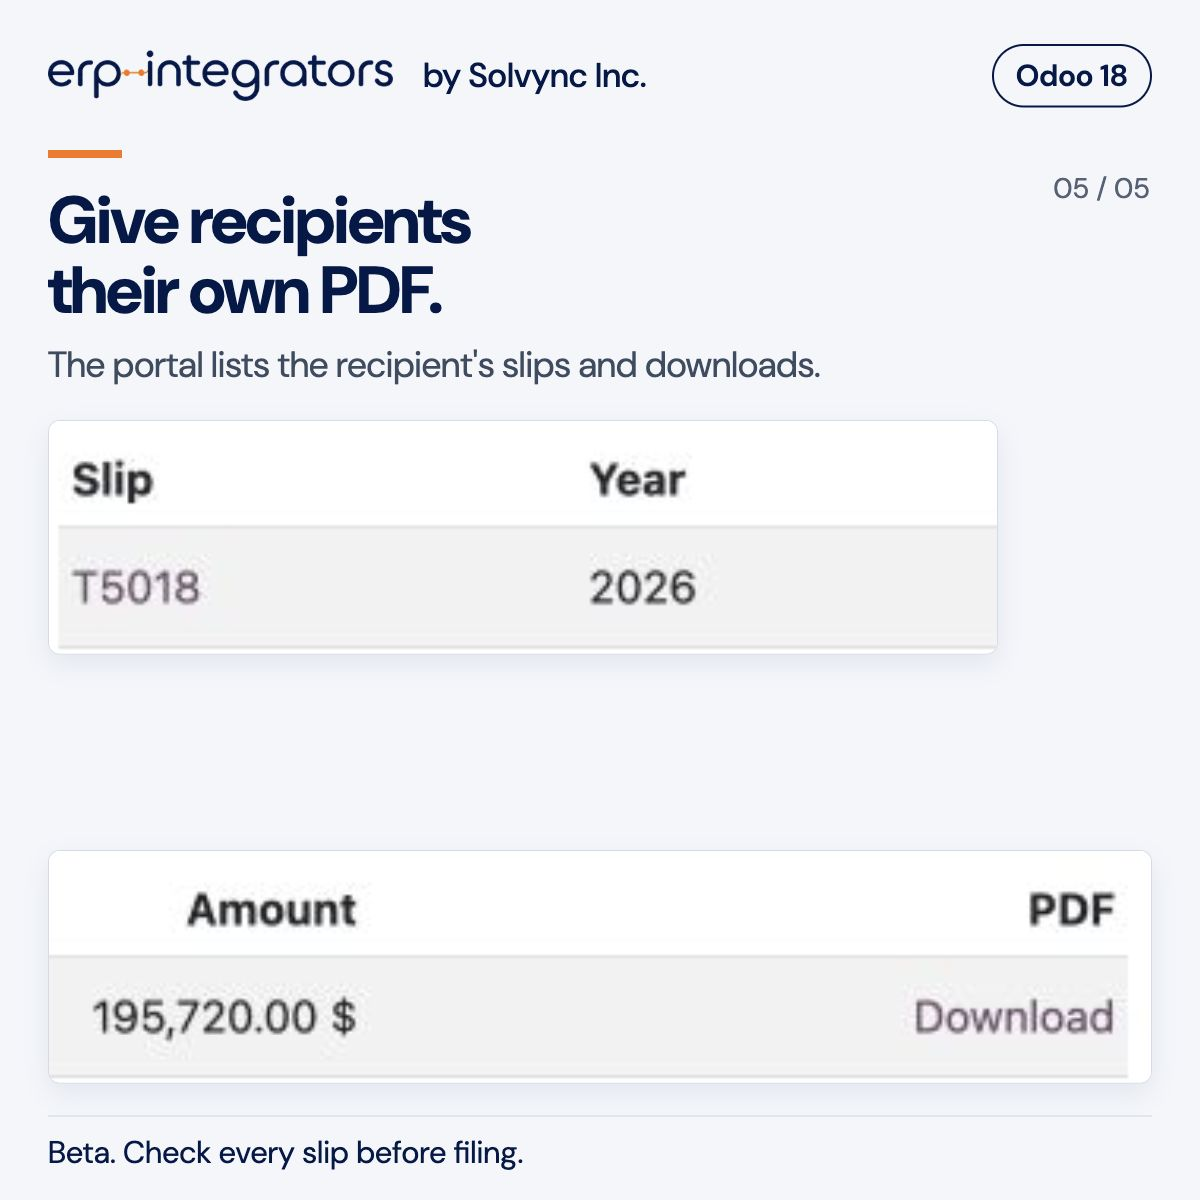
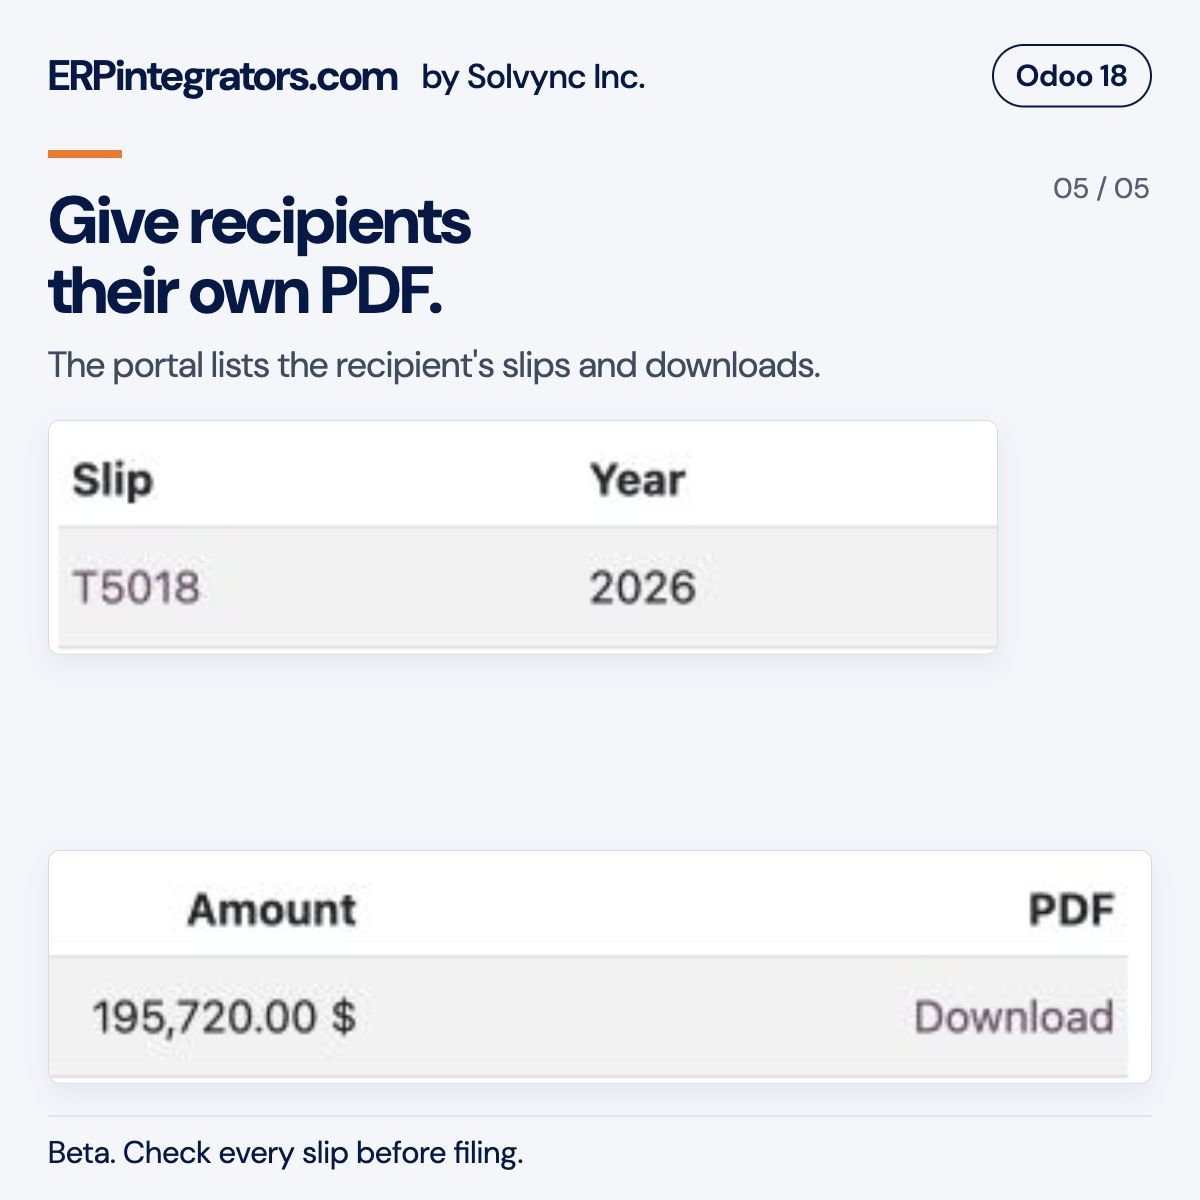
Use ERPintegrators.com publisher name

Changed region(s): [[0.0308, 0.0308, 0.5242, 0.0925]]

diff --git a/l10n_ca_contractor_slips/static/description/index.html b/l10n_ca_contractor_slips/static/description/index.html
@@ -1,6 +1,6 @@
 <h1 id="t4a-and-t5018-slips">T4A and T5018 Slips</h1>
 <p>License: LGPL-3</p>
-<p><strong>ERP Integrators</strong> | by <strong>Solvync
+<p><strong>ERPintegrators.com</strong> | by <strong>Solvync
 Inc.</strong></p>
 <p>Prepare T4A box 048 and T5018 contractor tax slips in Odoo 18, using
 the vendor payments recorded in your accounting. Review each

diff --git a/l10n_ca_contractor_slips/__manifest__.py b/l10n_ca_contractor_slips/__manifest__.py
@@ -5,7 +5,7 @@
     "summary": "T4A box 048 and T5018 contractor tax slips for Odoo, with payment traces, CRA XML and recipient PDFs",
     "version": "18.0.1.0",
     "category": "Accounting/Localizations/Reporting",
-    "author": "ERP Integrators (Solvync Inc.)",
+    "author": "ERPintegrators.com (Solvync Inc.)",
     "website": "https://erpintegrators.com",
     "support": "info@erpintegrators.com",
     "license": "LGPL-3",

diff --git a/README.md b/README.md
@@ -1,6 +1,6 @@
 # T4A and T5018 Slips
 
-**ERP Integrators** | by **Solvync Inc.**
+**ERPintegrators.com** | by **Solvync Inc.**
 
 T4A box 048 and T5018 slips for Odoo 18 Community and Enterprise, calculated from the vendor
 payments you actually made, with the CRA XML file validated against CRA's published schemas,
@@ -57,7 +57,7 @@ text only, and their presence on a slip says nothing about CRA approval of this 
 
 ## Publisher and project links
 
-Published through [ERP Integrators](https://erpintegrators.com), a Solvync Inc. brand.
+Published through [ERPintegrators.com](https://erpintegrators.com), a Solvync Inc. brand.
 The module is developed and maintained by [Solvync](https://solvync.com).
 For setup questions or a defect report, email [info@erpintegrators.com](mailto:info@erpintegrators.com).
 Include your Odoo version and the steps to reproduce the issue. Remove SINs and other personal

diff --git a/l10n_ca_contractor_slips/README.rst b/l10n_ca_contractor_slips/README.rst
@@ -4,7 +4,7 @@ T4A and T5018 Slips
 
 License: LGPL-3
 
-**ERP Integrators** \| by **Solvync Inc.**
+**ERPintegrators.com** \| by **Solvync Inc.**
 
 Prepare T4A box 048 and T5018 contractor tax slips in Odoo 18, using the
 vendor payments recorded in your accounting. Review each contractor's

diff --git a/l10n_ca_contractor_slips/readme/DESCRIPTION.md b/l10n_ca_contractor_slips/readme/DESCRIPTION.md
@@ -1,4 +1,4 @@
-**ERP Integrators** | by **Solvync Inc.**
+**ERPintegrators.com** | by **Solvync Inc.**
 
 Prepare T4A box 048 and T5018 contractor tax slips in Odoo 18, using the vendor payments
 recorded in your accounting. Review each contractor's total, trace the bills and payments behind
